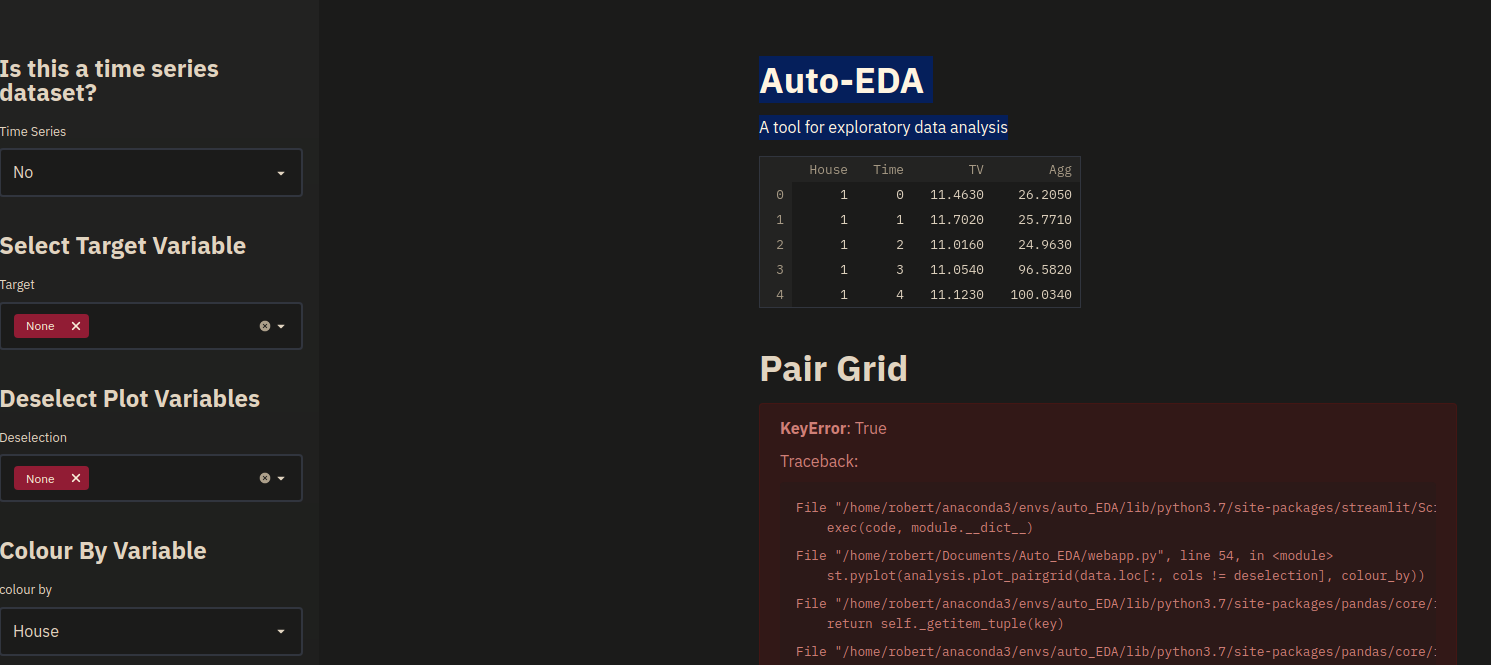
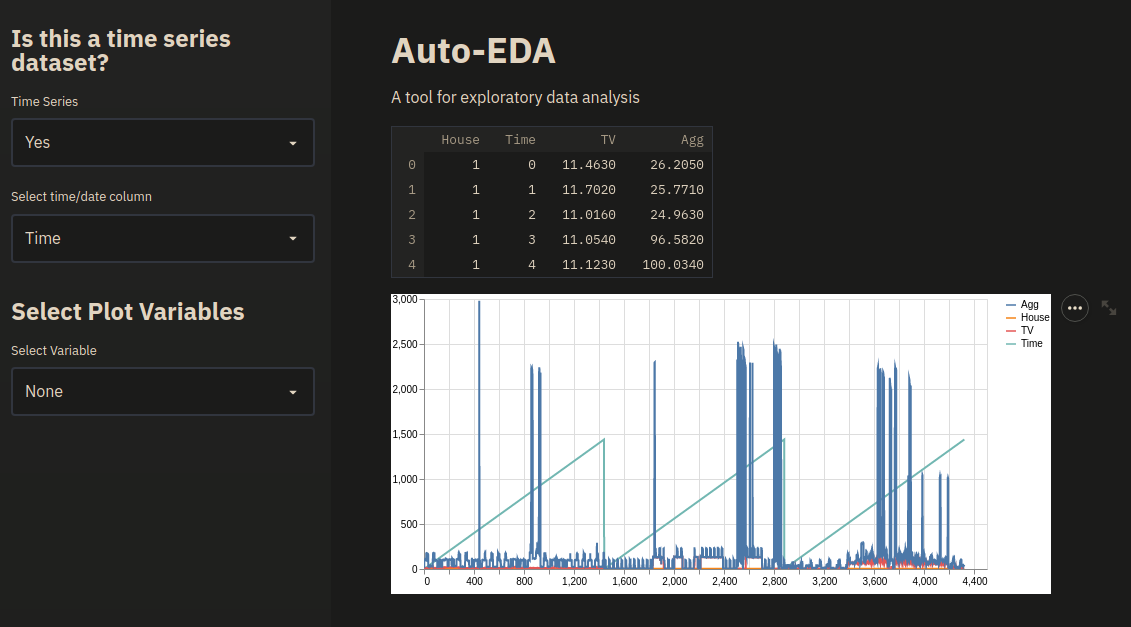
updated image

diff --git a/webapp.py b/webapp.py
@@ -6,7 +6,7 @@ from pandas_profiling import ProfileReport
 st.title("Auto-EDA")
 st.write('A tool for exploratory data analysis')
 #uploaded_file = st.file_uploader("Choose a dataset", type="csv")
-uploaded_file = "/home/robert/Documents/Auto_EDA/housing.csv"
+uploaded_file = "/home/robert/Documents/Auto_EDA/Q3-data.csv"
 if uploaded_file is not None:
     st.sidebar.title('Is this a time series dataset?')
     ts_choice = st.sidebar.selectbox('Time Series', ('Yes', 'No'))
@@ -27,7 +27,8 @@ if uploaded_file is not None:
         t_col = st.sidebar.selectbox('Select time/date column', cols)
         st.sidebar.title('Select Plot Variables')
         selection = st.sidebar.selectbox('Select Variable', cols)
-        st.pyplot(analysis.plot_timeseries(data, t_col, selection)) 
+        #st.pyplot(analysis.plot_timeseries(data, t_col, selection))
+        st.line_chart(data) 
         #st.altair_chart(analysis.plot_timeseries(data, t_col, selection))
         # add overlay time series button
 
@@ -49,9 +50,9 @@ if uploaded_file is not None:
         
         #plotting a pair grid
         st.title('Pair Grid')
-        #st.pyplot(analysis.plot_pairgrid(data.loc[:, cols != deselection], colour_by))
-        st.pyplot(analysis.plot_histograms(data.loc[:, cols != deselection]))
-        
+        st.pyplot(analysis.plot_pairgrid(data.loc[:, cols != deselection], colour_by))
+        #st.pyplot(analysis.plot_histograms(data.loc[:, cols != deselection]))
+        #st.line_chart(data) 
         
         # Plotting correlation plot of variables with specified R^2 cutoff
 

diff --git a/analysis.py b/analysis.py
@@ -15,13 +15,15 @@ def plot_histograms(data):
     
     return sns.distplot(data)
 
-# def plot_timeseries(data, t_col, selection):
-#     # 
-#     # g.map(plt.scatter, alpha=0.2)
-#     # g.add_legend()
+def plot_timeseries(data, t_col, selection):
+    # 
+    # g.map(plt.scatter, alpha=0.2)
+    # g.add_legend()
     
-#     #g = sns.lineplot(x = data[t_col], y = data.loc[[selection]], data = data)
-#     return data.plot(x = t_col, y = selection)
+    g = sns.lineplot(x = data[t_col], y = data.loc[selection], data = data)
+    #g = data.plot(x = t_col, y = selection)
+    
+    return plt.plot(x = data[t_col], y = data[selection])
 
 # def plot_timeseries_altair(data, t_col, selection):
 #     chart = alt.Chart(data).mark_point().encode(
